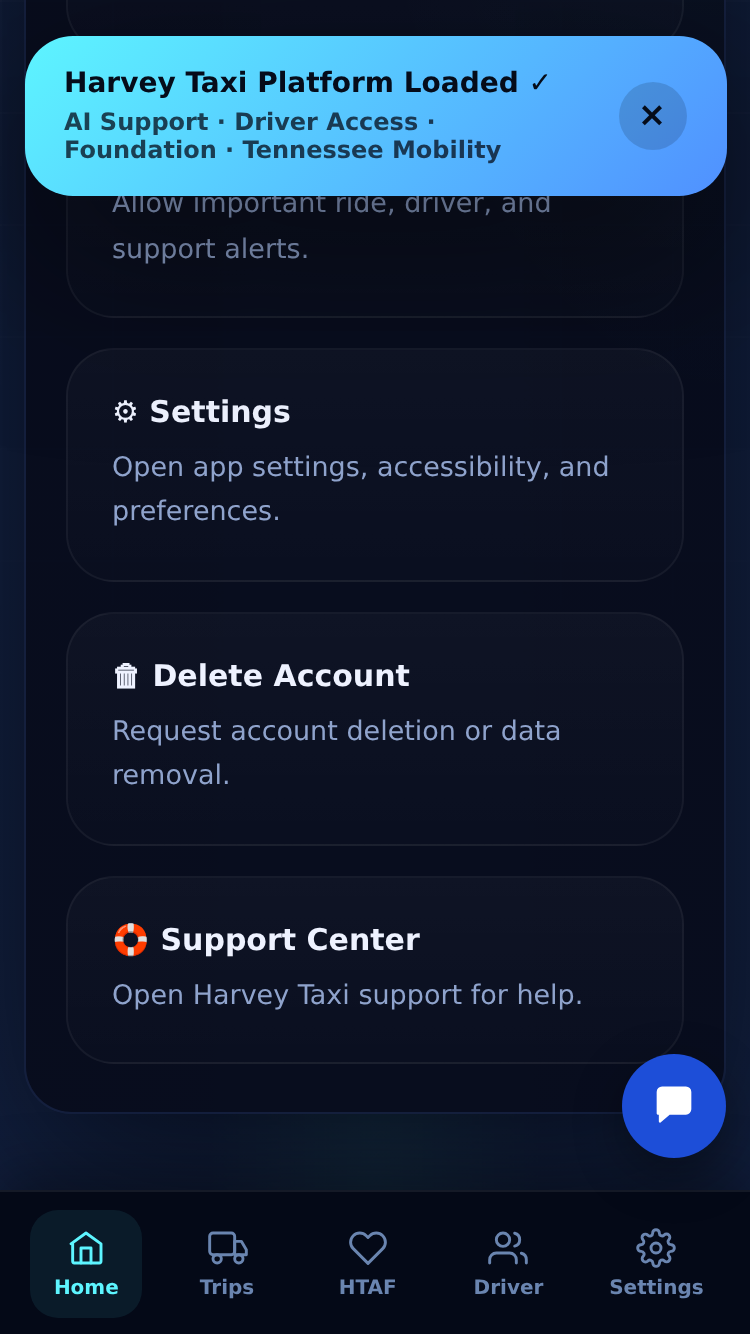
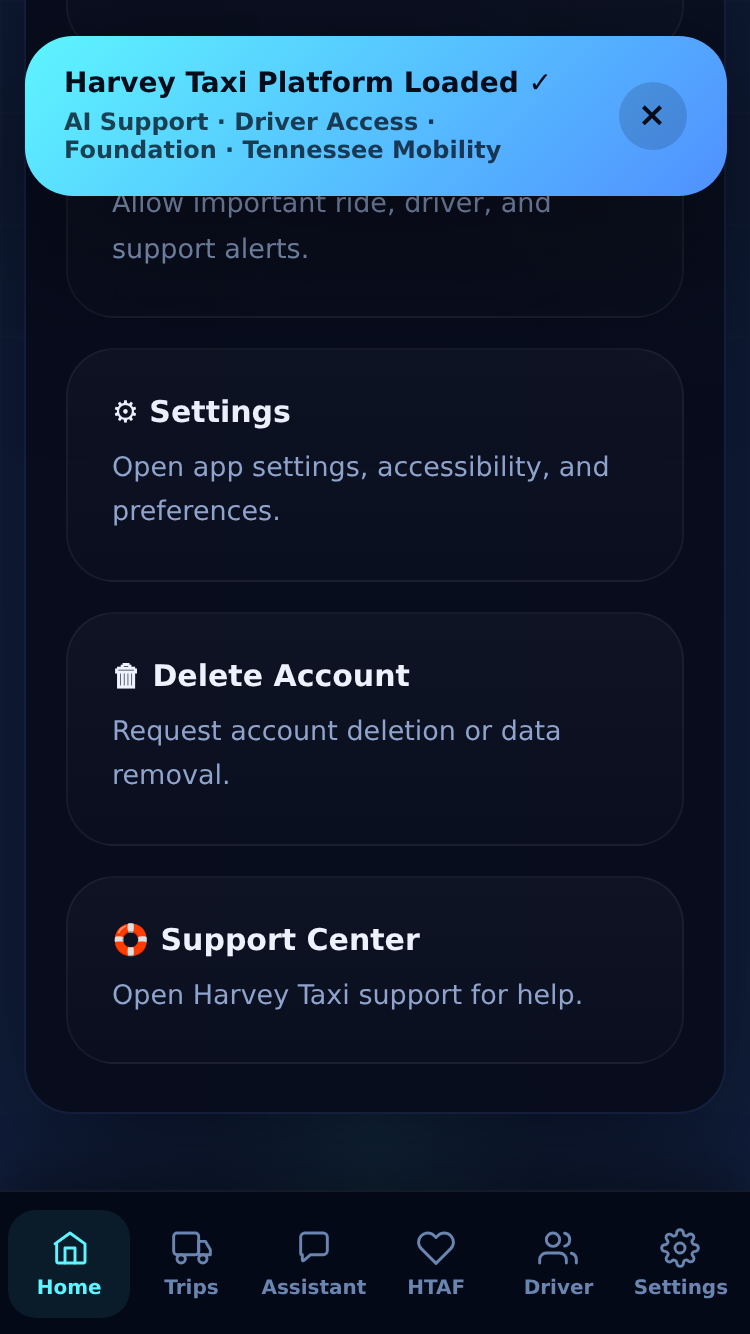
Index page on phones: Harvey Assistant as a bottom-nav tab instead of a floating button over the text
Claude-Session: https://claude.ai/code/session_01NLS9NQfpaLwc6iu7ve7HfQ

diff --git a/test/index-assistant.browser.test.js b/test/index-assistant.browser.test.js
@@ -110,7 +110,38 @@ describeWithBrowser("Harvey Taxi Mobile index page: the chat on small phones", (
           if (cx >= fr.left && cx <= fr.right && cy >= fr.top && cy <= fr.bottom) covered.push(`${f.id || f.className} over ${(c.innerText || c.getAttribute("aria-label") || c.tagName).trim().slice(0, 30)}`);
         }
       }
-      return { sideways: document.documentElement.scrollWidth > innerWidth + 1, covered, oldWidget: Boolean(document.querySelector(".harvey-ai-launch, [data-harvey-ai-root], .harvey-ai-panel")), newLauncher: vis(document.querySelector("[data-testid=hta-launcher]")) };
+      const tabs = Array.from(document.querySelectorAll(".bottom-nav .nav-btn")).filter(vis);
+      const tabsFit = tabs.every((t) => t.scrollWidth <= t.clientWidth + 1);
+      return { sideways: document.documentElement.scrollWidth > innerWidth + 1, covered, oldWidget: Boolean(document.querySelector(".harvey-ai-launch, [data-harvey-ai-root], .harvey-ai-panel")), newLauncher: vis(document.querySelector("[data-testid=hta-launcher]")), navAssistant: vis(document.querySelector("[data-testid=nav-assistant]")), tabs: tabs.length, tabsFit };
+    });
+
+  // Scrolls the whole page; at every step no floating element (assistant
+  // button, teaser) overlaps any text. Returns the overlaps found.
+  const textUnderFloaters = (page) =>
+    page.evaluate(async () => {
+      const vis = (el) => { if (!el) return false; const s = getComputedStyle(el); const r = el.getBoundingClientRect(); return s.display !== "none" && s.visibility !== "hidden" && r.width > 0 && r.height > 0 && !el.closest("[hidden]"); };
+      const hits = new Set();
+      const H = document.scrollingElement.scrollHeight;
+      for (let y = 0; y <= H; y += 60) {
+        document.scrollingElement.scrollTop = y;
+        await new Promise((r) => requestAnimationFrame(r));
+        const floaters = ["[data-testid=hta-launcher]", "#aiTeaserBubble", ".harvey-ai-launch"].map((q) => document.querySelector(q)).filter(vis);
+        for (const f of floaters) {
+          const b = f.getBoundingClientRect();
+          const walker = document.createTreeWalker(document.body, NodeFilter.SHOW_TEXT);
+          let n;
+          while ((n = walker.nextNode())) {
+            if (!n.textContent.trim() || f.contains(n) || n.parentElement.closest("#htaPanel, .welcome-banner, .bottom-nav")) continue;
+            const range = document.createRange();
+            range.selectNodeContents(n);
+            for (const q of range.getClientRects()) {
+              if (q.width >= 1 && q.right > b.left && q.left < b.right && q.bottom > b.top && q.top < b.bottom) { hits.add(n.textContent.trim().slice(0, 30)); break; }
+            }
+          }
+        }
+      }
+      document.scrollingElement.scrollTop = 0;
+      return Array.from(hits);
     });
 
   for (const phone of PHONES) {
@@ -126,8 +157,11 @@ describeWithBrowser("Harvey Taxi Mobile index page: the chat on small phones", (
       await page.waitForTimeout(500);
       const top = await pageFacts(page);
 
-      // Open the chat the way the page does ("Open AI Support").
-      await page.evaluate(() => window.openHarveyAiChat());
+      const textHits = await textUnderFloaters(page);
+      await page.waitForTimeout(300);
+
+      // Open the chat from the bottom nav's Assistant tab (a real tap).
+      await page.tap("[data-testid=nav-assistant]");
       await page.waitForTimeout(800);
       if (SHOTS) await page.screenshot({ path: path.join(SHOTS, `${phone.name}-chat.png`) });
       const panelVisible = await page.evaluate(() => { const p = document.getElementById("htaPanel"); return Boolean(p && p.classList.contains("open")); });
@@ -162,7 +196,10 @@ describeWithBrowser("Harvey Taxi Mobile index page: the chat on small phones", (
         return { inside: p.top >= 0 && p.left >= 0 && p.right <= innerWidth && p.bottom <= innerHeight, inputVisible: input.top >= 0 && input.bottom <= innerHeight, sideways: document.getElementById("htaPanel").scrollWidth > document.getElementById("htaPanel").clientWidth + 1, emergency: banner && banner.textContent };
       });
 
-      expect(top).toMatchObject({ sideways: false, covered: [], oldWidget: false, newLauncher: true });
+      // Phones: no floating button at all; the Assistant tab is in the nav
+      // and all six tabs fit their labels.
+      expect(top).toMatchObject({ sideways: false, covered: [], oldWidget: false, newLauncher: false, navAssistant: true, tabs: 6, tabsFit: true });
+      expect(textHits).toEqual([]);
       expect(end).toMatchObject({ sideways: false, covered: [] });
       expect(kb).toMatchObject({ inside: true, inputVisible: true, sideways: false });
       expect(kb.emergency).toContain("Call 911");
@@ -173,11 +210,20 @@ describeWithBrowser("Harvey Taxi Mobile index page: the chat on small phones", (
     });
   }
 
-  test("desktop: the teaser bubble and the Open AI Support button open Harvey Assistant; phones hide the teaser", async () => {
+  test("desktop: launcher, teaser and Open AI Support open Harvey Assistant; phones hide the teaser and return focus to the Assistant tab", async () => {
     const phone = await open(PHONES[0]);
     expect(await phone.page.isVisible("#aiTeaserBubble")).toBe(false);
+    // Closing the chat returns focus to the Assistant tab that opened it.
+    await phone.page.tap("[data-testid=nav-assistant]");
+    await phone.page.waitForTimeout(400);
+    await phone.page.tap("#htaPanel .hta-close");
+    await phone.page.waitForTimeout(400);
+    expect(await phone.page.evaluate(() => document.activeElement && document.activeElement.dataset.testid)).toBe("nav-assistant");
     await phone.context.close();
     const { context, page, calls } = await open({ name: "desktop", width: 1280, height: 900 });
+    // Wider screens keep the floating launcher; the nav tab is phone-only.
+    expect(await page.isVisible("[data-testid=hta-launcher]")).toBe(true);
+    expect(await page.isVisible("[data-testid=nav-assistant]")).toBe(false);
     await page.dispatchEvent("#aiTeaserBubble", "click"); // it floats (animation), so no "stable" tap
     await page.waitForTimeout(600);
     expect(await page.evaluate(() => document.getElementById("htaPanel").classList.contains("open"))).toBe(true);

diff --git a/public/agent-assist.js b/public/agent-assist.js
@@ -15,6 +15,10 @@
   var script = document.currentScript;
   var role = script && script.dataset.role === "driver" ? "driver" : "rider";
   var tokenKey = script && script.dataset.tokenKey;
+  // data-launcher="desktop": the page has its own way in on phones (a tab in
+  // its bottom navigation that calls HarveyAssistant.open()), so the round
+  // floating button is left out below 600px and never sits over the page.
+  var desktopLauncherOnly = Boolean(script && script.dataset.launcher === "desktop");
   if (window.__harveyAgentAssist) return;
   window.__harveyAgentAssist = true;
 
@@ -88,6 +92,7 @@
     ".hta-btn[hidden]{display:none}" +
     ".hta-btn-text{position:absolute;width:1px;height:1px;overflow:hidden;clip:rect(0 0 0 0);white-space:nowrap}" +
     ".hta-btn-icon{display:block;width:26px;height:26px}" +
+    ".hta-btn.hta-desktop-only{display:none}" +
     "}";
 
   // Look shared with the rider pages and the driver app's assistant: the
@@ -162,7 +167,7 @@
     style.textContent = css;
     document.head.appendChild(style);
 
-    var btn = el("button", { type: "button", class: "hta-btn", "aria-expanded": "false", "aria-controls": "htaPanel", "aria-label": "Harvey Assistant", "data-testid": "hta-launcher" });
+    var btn = el("button", { type: "button", class: desktopLauncherOnly ? "hta-btn hta-desktop-only" : "hta-btn", "aria-expanded": "false", "aria-controls": "htaPanel", "aria-label": "Harvey Assistant", "data-testid": "hta-launcher" });
     btn.appendChild(el("span", { class: "hta-btn-text" }, "Harvey Assistant"));
     // Chat bubble icon, shown on phones only.
     var svgNs = "http://www.w3.org/2000/svg";
@@ -237,12 +242,17 @@
       return a.tagName === "INPUT" && !/^(button|submit|reset|checkbox|radio|range|color|file|image|hidden)$/i.test(a.type || "");
     }
 
+    // Focus goes back to whatever opened the panel (the launcher, or a page
+    // button when the launcher is hidden on phones).
+    var opener = null;
     function toggle(open) {
+      if (open && !panel.classList.contains("open")) opener = document.activeElement;
       panel.classList.toggle("open", open);
       btn.setAttribute("aria-expanded", String(open));
       layout();
-      if (open) input.focus();
-      else btn.focus();
+      if (open) { input.focus(); return; }
+      var back = btn.offsetParent ? btn : opener;
+      if (back && back.focus && document.contains(back)) back.focus();
     }
     // One-tap questions go through the same form as typed ones. Support
     // opens the support request editor directly (riders).

diff --git a/public/index.html b/public/index.html
@@ -999,6 +999,15 @@
     .nav-btn svg { width: 20px; height: 20px; stroke: currentColor; fill: none; stroke-width: 1.75; stroke-linecap: round; stroke-linejoin: round; }
     .nav-btn.active, .nav-btn:hover, .nav-btn:focus-visible { color: var(--cyan); background: rgba(93,245,255,0.08); }
     .nav-btn:focus-visible { outline: 2px solid var(--cyan); outline-offset: 2px; }
+    /* Harvey Assistant lives in the bottom nav on phones (no floating button
+       over the page there); on wider screens its own launcher is used. Six
+       tabs share the width evenly on phones. */
+    .nav-btn.nav-assistant { display: none; }
+    @media (max-width: 599px) {
+      .nav-btn.nav-assistant { display: flex; }
+      .bottom-nav { padding-left: 4px; padding-right: 4px; }
+      .nav-btn { min-width: 0; flex: 1 1 0; padding: 8px 2px; font-size: 10.5px; white-space: nowrap; }
+    }
 
     /* ============================================================
        MODALS
@@ -1629,6 +1638,10 @@
       <svg viewBox="0 0 24 24" aria-hidden="true"><rect x="1" y="3" width="15" height="13" rx="2"/><path d="M16 8h4l3 5v3h-7V8z"/><circle cx="5.5" cy="18.5" r="2.5"/><circle cx="18.5" cy="18.5" r="2.5"/></svg>
       Trips
     </button>
+    <button class="nav-btn nav-assistant" type="button" onclick="openHarveyAiChat();" aria-label="Harvey Assistant" aria-controls="htaPanel" data-testid="nav-assistant">
+      <svg viewBox="0 0 24 24" aria-hidden="true"><path d="M4 5.5A2.5 2.5 0 0 1 6.5 3h11A2.5 2.5 0 0 1 20 5.5v8a2.5 2.5 0 0 1-2.5 2.5H10l-4.2 3.6A.5.5 0 0 1 5 19.2V16h-.5A.5.5 0 0 1 4 15.5z"/></svg>
+      Assistant
+    </button>
     <button class="nav-btn" onclick="safeGo('foundation.html','bottom_foundation')" aria-label="Foundation">
       <svg viewBox="0 0 24 24" aria-hidden="true"><path d="M20.84 4.61a5.5 5.5 0 0 0-7.78 0L12 5.67l-1.06-1.06a5.5 5.5 0 0 0-7.78 7.78L12 21.23l8.84-8.84a5.5 5.5 0 0 0 0-7.78z"/></svg>
       HTAF
@@ -1657,7 +1670,7 @@
   <!-- Harvey Assistant: the same assistant as the rider dashboard (rules
        and approved pages; consent-gated AI where enabled). Replaces the old
        ai-support-widget.js, which called /api/ai/support (OpenAI). -->
-  <script src="/agent-assist.js?v=20261010-index" data-role="rider" defer></script>
+  <script src="/agent-assist.js?v=20261010-index2" data-role="rider" data-launcher="desktop" defer></script>
 
   <!-- ============================================================
        ALL APP JS — single block, correct declaration order
